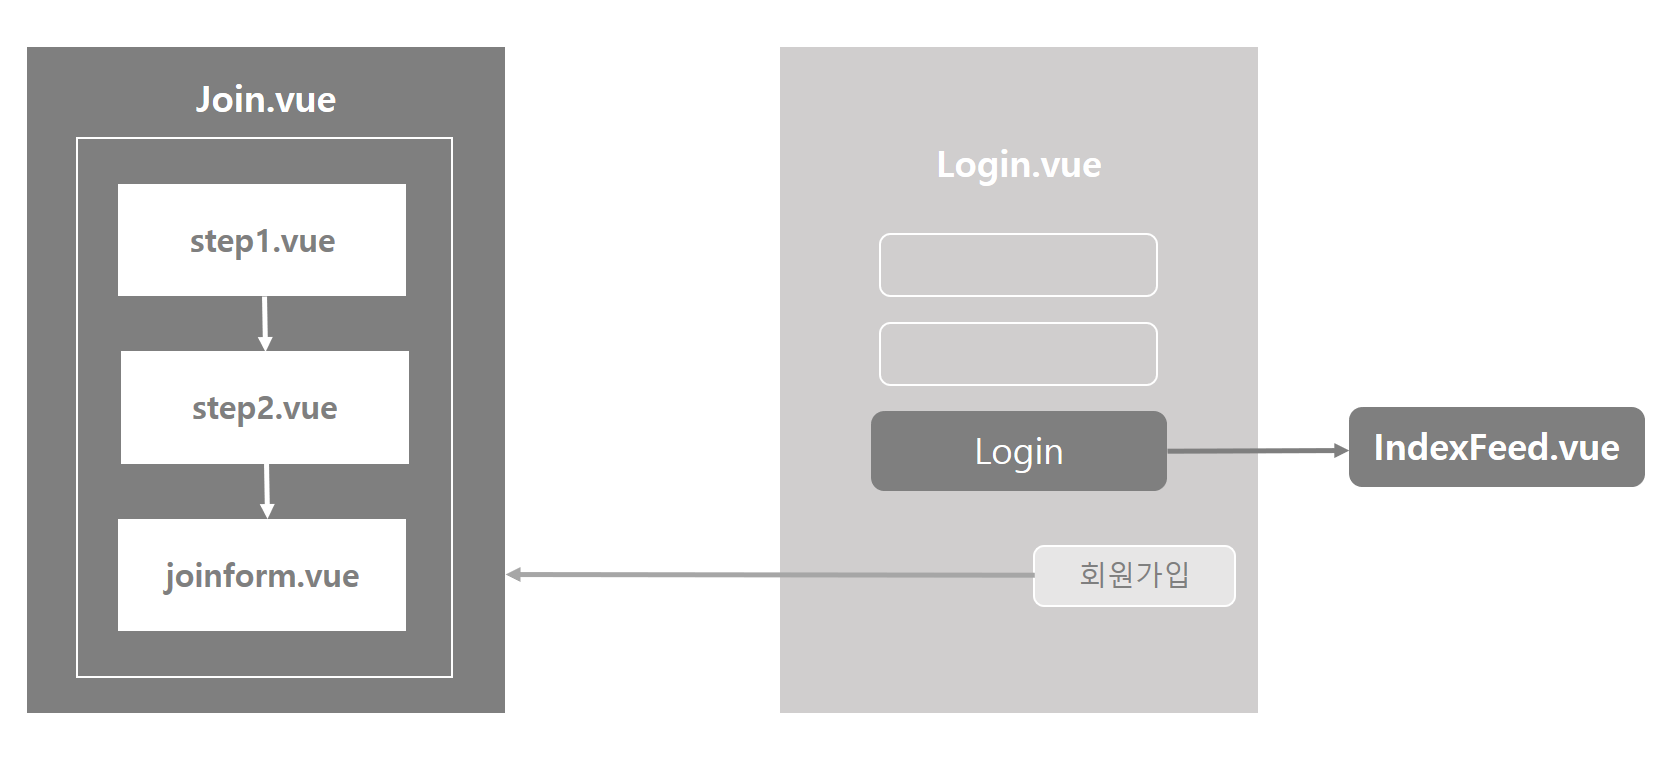
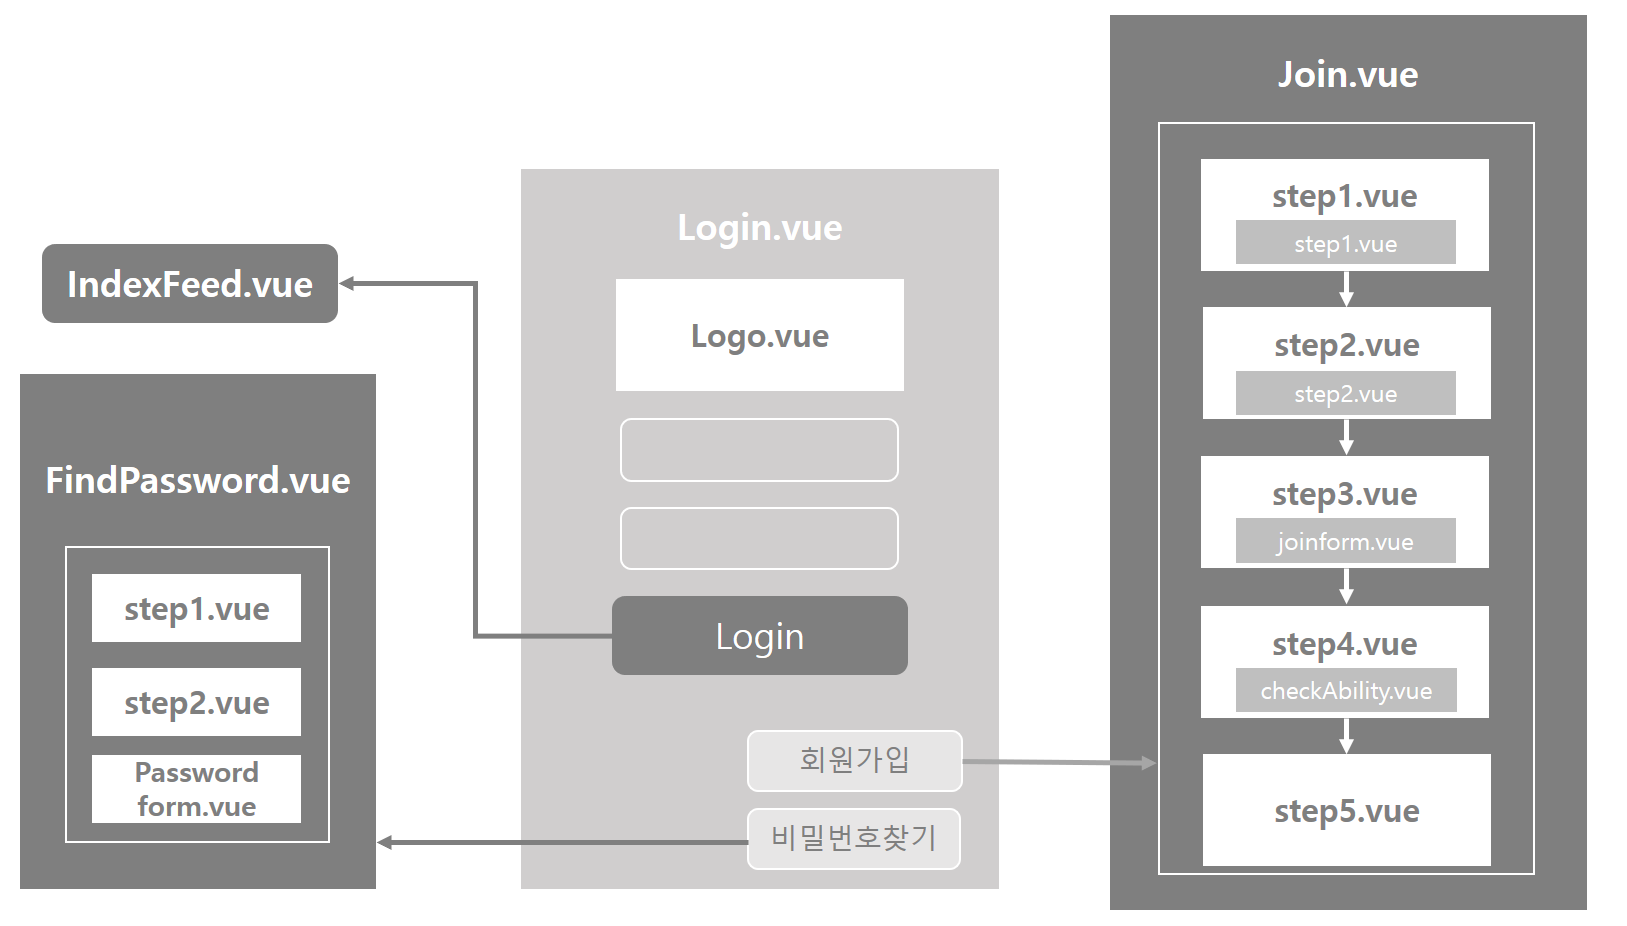
README -ing

diff --git a/document/frontend/Frontend_Construction.md b/document/frontend/Frontend_Construction.md
@@ -114,11 +114,11 @@ FRONTEND/
 
 ### :black_medium_square: 상위 컴포넌트
 
-| File 이름          | 기술                                                    |
-| ------------------ | ------------------------------------------------------- |
-| `App.vue`          | vue.js의 기본적인 App.vue를 정의합니다.                 |
-| views/`Main.vue`   | 로그인 후 사용자가 보게 될 기본 Home 화면을 정의합니다. |
-| views/`Notice.vue` | 사용자 알림 화면을 정의합니다.                          |
+| File 이름          | 기술                                                         |
+| ------------------ | ------------------------------------------------------------ |
+| `App.vue`          | vue.js의 기본적인 App.vue를 정의합니다.                      |
+| views/`Main.vue`   | 로그인 후 사용자가 보게 될 프로젝트 화면을 정의합니다.       |
+| views/`Notice.vue` | 사용자 알림 화면을 정의합니다. ([알림 페이지 구조](./Alarm_Construction.md/#construction)) |
 
 ### :black_medium_square: src/components
 
@@ -138,12 +138,16 @@ FRONTEND/
 
 - **src/components/notice**
 
+  > [알림 페이지 파일 정의](./Alarm_Construction.md/#file-definition)
+
   | File 이름       | 기술                                             |
   | --------------- | ------------------------------------------------ |
   | `SNSAlarm.vue`  | 알림 창의 SNS 관련 알람 component를 정의합니다.  |
   | `TeamAlarm.vue` | 알림 창의 Team 관련 알람 component를 정의합니다. |
 
 - **src/components/search**
+
+  > [검색 페이지 파일 정의](./Search_Construction.md/#file-definition)
 
   | File 이름            | 기술                                          |
   | -------------------- | --------------------------------------------- |
@@ -152,6 +156,8 @@ FRONTEND/
   | `tagItem.vue`        | 검색 결과 tag component를 정의합니다.         |
 
 - **src/components/SNS**
+
+  > [뉴스피드 파일 정의](./SNSFeed_Construction.md/#file-definition)
 
   | File 이름            | 기술                                                       |
   | -------------------- | ---------------------------------------------------------- |
@@ -174,6 +180,8 @@ FRONTEND/
 
 - **src/components/user**
 
+  > [유저 로그인 & 회원가입 파일 정의](./User(Login_Join)_Construction.md/#file-definition) / [유저 프로필 파일 정의](./User(profile)_Construction.md/#file-definition)
+  
   | File 이름            | 기술                                                         |
   | -------------------- | ------------------------------------------------------------ |
   | `checkAbility.vue`   | 사용자의 능력치 입력 component를 정의합니다.                 |
@@ -182,7 +190,7 @@ FRONTEND/
   | `Logo.vue`           | 로그인 창의 Logo component를 정의합니다.                     |
   | `myPostItem.vue`     | 내가 쓴 게시글 component를 정의합니다.                       |
   | `passwordform.vue`   | 사용자의 비밀번호 변경 페이지를 정의합니다.                  |
-  | `profileAbility.vue` | 능력치 입력을 위한 component를 정의합니다.                   |
+  | `profileAbility.vue` | 유저 프로필 페이지의 능력치 출력을 위한 component를 정의합니다. |
   | `step1.vue`          | 회원가입을 위한 이메일 인증을 보내는 component를 정의합니다. |
   | `step2.vue`          | 회원가입 이메일 인증 component를 정의합니다.                 |
 
@@ -202,12 +210,16 @@ FRONTEND/
 
 - **src/views/search**
 
+  > [검색 페이지 구조](./Search_Construction.md/#construction)
+
   | File 이름        | 기술                          |
   | ---------------- | ----------------------------- |
   | `SearchMain.vue` | 검색 페이지를 정의합니다.     |
   | `TagResult.vue`  | Tag 결과 페이지를 정의합니다. |
 
 - **src/views/SNS**
+
+  > [뉴스피드 구조](./SNSFeed_Construction.md/#construction)
 
   | File 이름        | 기술                                            |
   | ---------------- | ----------------------------------------------- |
@@ -227,6 +239,8 @@ FRONTEND/
 
 - **src/views/user**
 
+  > [유저 로그인 & 회원가입 구조](./User(Login_Join)_Construction.md/#construction) / [유저 프로필 구조](./User(profile)_Construction.md/#construction)
+  
   | File 이름            | 기술                                           |
   | -------------------- | ---------------------------------------------- |
   | `FindPassword.vue`   | 비밀번호 찾기를 위한 페이지를 정의합니다.      |
@@ -237,11 +251,11 @@ FRONTEND/
   | `modifyPassword.vue` | 비밀번호 변경을 위한 페이지를 정의합니다.      |
   | `myLikePost.vue`     | 내가 좋아요한 게시글 목록 페이지를 정의합니다. |
   | `myPost.vue`         | 내가 작성한 게시글 목록 페이지를 정의합니다.   |
-  | `profile.vue`        | 사용자 계정에 대한 페이지를 정의합니다.        |
+| `profile.vue`        | 사용자 계정에 대한 페이지를 정의합니다.        |
   | `UserModify.vue`     | 유저 정보 수정을 위한 페이지를 정의합니다.     |
 
   - **src/views/user/join**
-
+  
     | File 이름                 | 기술                                           |
     | ------------------------- | ---------------------------------------------- |
     | `getAbility.vue`          | 사용자 능력치 입력 페이지를 정의합니다.        |
@@ -249,16 +263,14 @@ FRONTEND/
 
 
 
-## 세부 사항 (링크)
+## 세부 사항 Link 모음
 
-- [뉴스피드 구조](./SNSFeed_Construction.md/#Construction)
-
-- [유저 로그인 & 회원가입 구조](./User(Login_Join)_Construction.md/#Construction)
-
-- [유저 페이지 구조]
-- [알람 페이지 구조](./Alarm_Construction.md/#Construction)
+- [뉴스피드 파일 정의](./SNSFeed_Construction.md/#file-definition)
+- [유저 로그인 & 회원가입 구조](./User(Login_Join)_Construction.md/#construction)
+- [유저 프로필 구조](./User(profile)_Construction.md/#construction)
+- [알림 페이지 구조](./Alarm_Construction.md/#construction)
 - [팀 페이지 구조]
-- [검색 페이지 구조](./Search_Construction.md/#Construction)
+- [검색 페이지 구조](./Search_Construction.md/#construction)
 
 
 

diff --git a/document/frontend/User(Login_Join)_Construction.md b/document/frontend/User(Login_Join)_Construction.md
@@ -10,18 +10,23 @@
 
 #### :black_medium_square: src/views/user
 
-| File 이름   | 기술                                         |
-| ----------- | -------------------------------------------- |
-| `Login.vue` | 로그인을 위한 페이지를 정의합니다.           |
-| `Join.vue`  | 사이트 회원 가입을 위한 페이지를 정의합니다. |
+| File 이름                       | 기술                                           |
+| ------------------------------- | ---------------------------------------------- |
+| `Login.vue`                     | 로그인을 위한 페이지를 정의합니다.             |
+| `Join.vue`                      | 사이트 회원 가입을 위한 페이지를 정의합니다.   |
+| `FindPassword.vue`              | 비밀번호 찾기를 위한 페이지를 정의합니다.      |
+| /join/`getAbility.vue`          | 사용자 능력치 입력 페이지를 정의합니다.        |
+| /join/`step1.vue` ~ `step5.vue` | 회원가입을 위한 페이지를 step 별로 정의합니다. |
 
 #### :black_medium_square: src/components/user
 
-| File 이름      | 기술                                                         |
-| -------------- | ------------------------------------------------------------ |
-| `step1.vue`    | 회원가입을 위한 이메일 인증을 보내는 component를 정의합니다. |
-| `step2.vue`    | 회원가입 이메일 인증 component를 정의합니다.                 |
-| `joinform.vue` | 회원가입을 위한 입력 폼 component를 정의합니다.              |
+| File 이름          | 기술                                                         |
+| ------------------ | ------------------------------------------------------------ |
+| `step1.vue`        | 회원가입을 위한 이메일 인증을 보내는 component를 정의합니다. |
+| `step2.vue`        | 회원가입 이메일 인증 component를 정의합니다.                 |
+| `joinform.vue`     | 회원가입을 위한 입력 폼 component를 정의합니다.              |
+| `Logo.vue`         | 로그인 창의 Logo component를 정의합니다.                     |
+| `passwordform.vue` | 사용자의 비밀번호 변경 페이지를 정의합니다.                  |
 
 
 
@@ -37,7 +42,7 @@
 
   - 파라미터: `email`, `password`
 
-  - response data를 `storage`에 집어넣는다.
+  - response data를 `session.storage`에 집어넣는다.
 
     ```javascript
     storage.setItem("token", res.data.token)
@@ -52,7 +57,7 @@
 
 #### `Join.vue`
 
-> 회원가입을 위한 컴포넌트로 하위 컴포넌트로 3 step을 바꾸어 출력한다.
+> 회원가입을 위한 컴포넌트로 하위 컴포넌트로 5 step을 바꾸어 출력한다.
 
 - 변수를 통해 다음 컴포넌트로 넘겨준다.
 
@@ -74,7 +79,7 @@
     }
     ```
 
-- 최종적으로 회원가입(`Join`)을 위해 axios 요청을 보낸다.
+- 능력치 입력 이후 회원가입(`Join`)을 위해 axios 요청을 보낸다.
 
   - post 방식: `/account/signup`
   - 파라미터: `입력받은 데이터 전부`

diff --git a/document/frontend/User(profile)_Construction.md b/document/frontend/User(profile)_Construction.md
@@ -1,0 +1,72 @@
+# User(profile)
+
+## Construction
+
+![user_profile](../images/user_profile.png)
+
+
+
+## File Definition
+
+#### :black_medium_square: src/views/user
+
+| File 이름            | 기술                                           |
+| -------------------- | ---------------------------------------------- |
+| `profile.vue`        | 사용자 계정에 대한 페이지를 정의합니다.        |
+| `myPost.vue`         | 내가 작성한 게시글 목록 페이지를 정의합니다.   |
+| `myLikePost.vue`     | 내가 좋아요한 게시글 목록 페이지를 정의합니다. |
+| `modifyAbility.vue`  | 본인 능력치 수정을 위한 페이지를 정의합니다.   |
+| `modifyPassword.vue` | 비밀번호 변경을 위한 페이지를 정의합니다.      |
+| `followinglist.vue`  | 팔로우 유저 목록을 위한 페이지를 정의합니다.   |
+| `UserModify.vue`     | 유저 정보 수정을 위한 페이지를 정의합니다.     |
+
+#### :black_medium_square: src/components/user
+
+| File 이름            | 기술                                                         |
+| -------------------- | ------------------------------------------------------------ |
+| `myPostItem.vue`     | 내가 쓴 게시글 component를 정의합니다.                       |
+| `checkAbility.vue`   | 사용자의 능력치 입력 component를 정의합니다.                 |
+| `followItem.vue`     | 팔로우 유저 component를 정의합니다.                          |
+| `profileAbility.vue` | 유저 프로필 페이지의 능력치 출력을 위한 component를 정의합니다. |
+
+
+
+## Code
+
+#### `profile.vue`
+
+> 유저 프로필의 **최상단 컴포넌트**로 유저 정보를 출력한다.
+
+- router link의 params로 받은 닉네임이나 session에 저장된 본인 닉네임 정보로 axios 요청을 보낸다.
+
+  - get 방식: `/account/myPage/${this.nickname}/${this.pagenickname}`
+  - response data를 받아 출력한다. (능력치의 경우 `profileAbility.vue`로 내려서 출력한다.)
+
+- Navigation에서 profile일 경우에만 새로운 네비게이션 창 등을 통해 페이지를 이동한다.
+  - 해당 유저가 작성한 글(`myPost.vue`)
+  - 해당 유저가 좋아요한 글(`myLikePost.vue`)
+  - 해당 유저의 팔로워 / 팔로잉 목록(`followinglist.vue`)
+  - 본인 프로필 페이지인 경우엔 개발 능력 수정(`modifyAbility.vue`) / 회원정보 수정(`UserModify.vue`)
+
+
+
+#### `myPost.vue` & `myLikePost.vue`
+
+> 작성한 글 & 좋아요한 글의 목록을 출력한다.
+
+- axios 요청(get방식)을 보내서 글 목록을 받아 출력한다.
+- 해당 컴포넌트(`myPostItem.vue`)를 클릭하면 해당 게시글 상세 페이지로 이동한다.
+
+
+
+#### `modifyAbility.vue` & `UserModify.vue`
+
+> 본인의 능력치 & 본인 프로필 페이지를 수정한다.
+
+- axios 요청(get방식)을 보내서 입력된 데이터를 받아온 후 수정된 데이터를 axios 요청(put방식)을 통해 저장한다.
+
+
+
+## Reference
+
+- stack overflow

diff --git a/Readme.md b/Readme.md
@@ -2,7 +2,7 @@
 
 ## Description
 
-해당 프로젝트는 개발자들을 위한 모바일 웹 사이트를 구현합니다. 사이트에서는 입력받은 정보를 바탕으로 스터디 팀원들을 매칭해줍니다. 스터디마다 실시간 채팅방이 만들어집니다. 사용자는 자신의 팔로우한 사람들의 게시글로 구성된 뉴스피드를 볼 수 있습니다.
+해당 프로젝트는 개발자들을 위한 모바일 웹 사이트를 구현합니다. 사이트에서는 입력받은 정보를 바탕으로 프로젝트 팀원을 매칭해줍니다. 매칭된 팀원에게 팀원 요청을 보내고, 수락/거절이 가능합니다. 반대로 같은 주제를 택한 프로젝트 팀에 팀원 가입 요청을 보내고, 수락/거절이 가능합니다. 프로젝트마다 실시간 채팅방이 만들어집니다. 사용자는 자신의 팔로우한 사람들의 게시글로 구성된 뉴스피드를 볼 수 있으며, 해시태그 별로 뉴스피드 글을 확인할 수 있습니다.
 
 
 
@@ -19,6 +19,8 @@
 - HTML/CSS
 - Eclipse
 - Mysql workbench
+- mariaDB
+- Docker
 - [VS Code](https://code.visualstudio.com/)
 - [BootStrap](https://bootstrap-vue.org/)
 - Google Chrome
@@ -30,9 +32,9 @@
 
 ## PJT Construction
 
-> 해당 프로젝트는 **Spring**과 **Vue.js**를 사용합니다.
+> 해당 프로젝트는 **Spring**과 **Vue.js**를 사용합니다. [directory](#-File-Directory)
 >
-> 각 구조 확인: [Back end](../document/backend/Backend_Construction.md/#directory) | [Front end](../document/frontend/Frontend_Construction.md/#directory)
+> 각 구조 확인: [Back end](./document/backend/Backend_Construction.md/#Directory) | [Front end](./document/frontend/Frontend_Construction.md/#Directory)
 
 ### 전체 구조
 
@@ -63,7 +65,7 @@ PJT/
 
 > **SNS_Backend**와 **frontend** 디렉토리 아래의 파일들은 아래 링크를 통해 확인할 수 있습니다.
 >
-> 링크: [Back end](../document/backend/Backend_Construction.md/#file-definition) | [Front end](../document/frontend/Frontend_Construction.md/#file-definition)
+> 링크: [Back end](./document/backend/Backend_Construction.md/#file-definition) | [Front end](./document/frontend/Frontend_Construction.md/#file-definition)
 
 ### :black_medium_square: document
 
